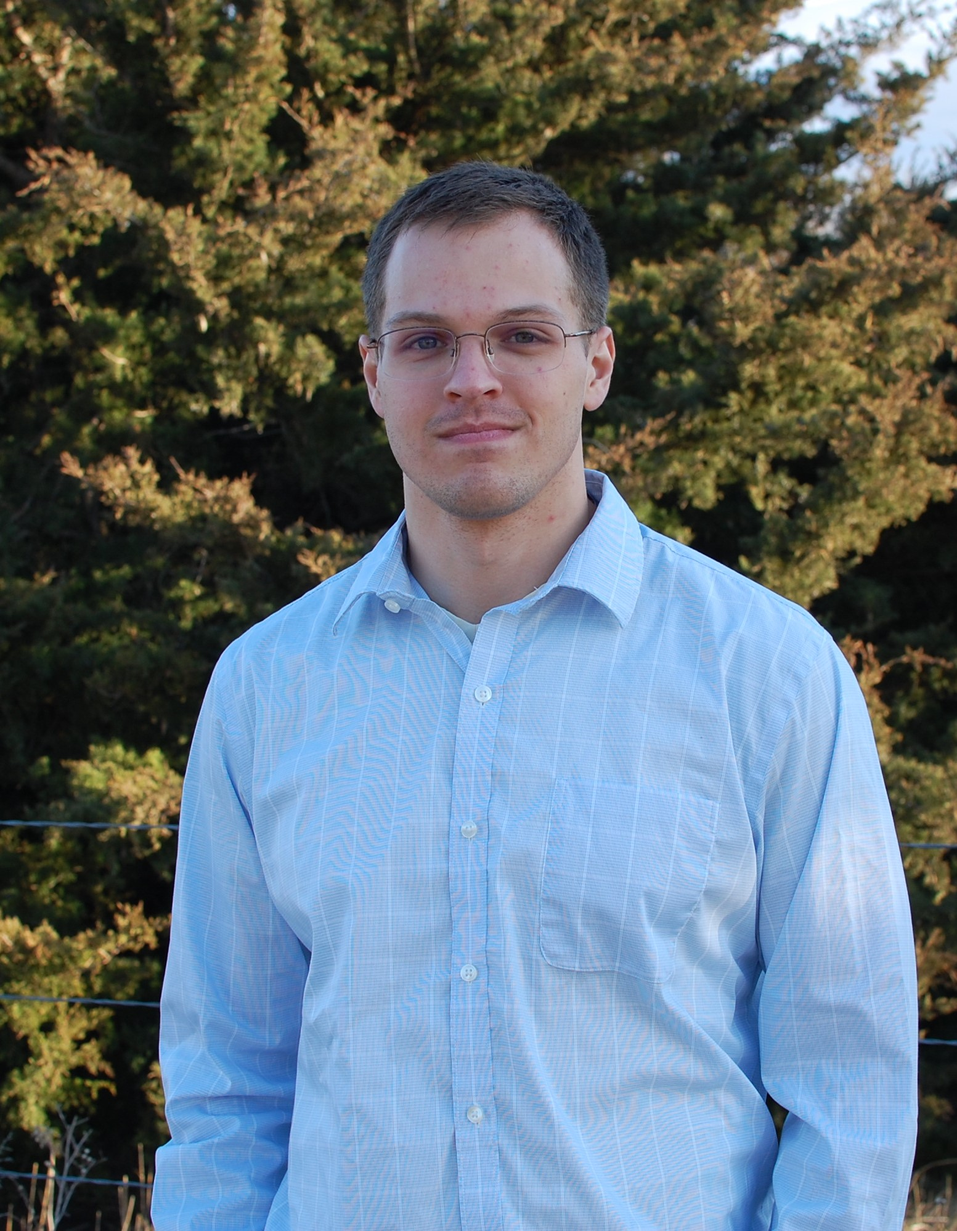
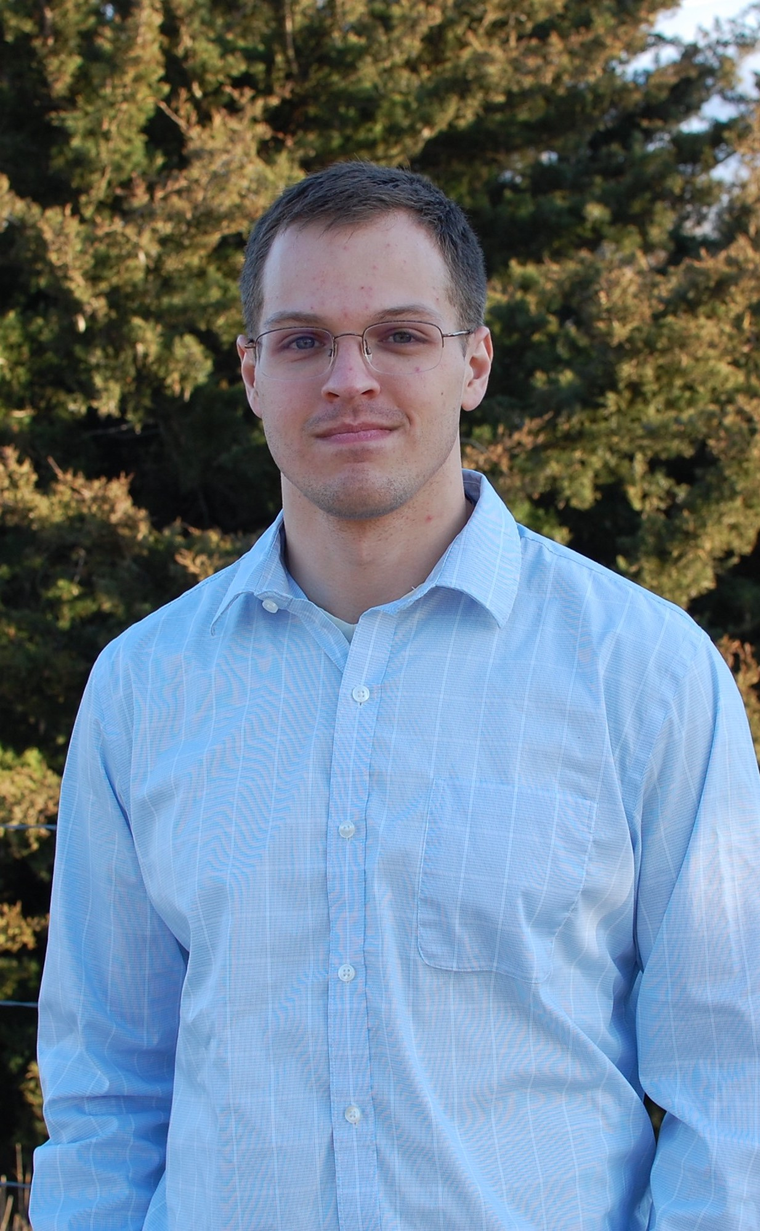
update people page

diff --git a/_people/Joy_Elensi.md b/_people/Joy_Elensi.md
@@ -1,6 +1,7 @@
+---
 name: Joy Elensi
 position: underGradStudent
-avatar: avatar.jpg
+avatar: Joy.JPG
 twitter:
 joined: 2021
 ---
